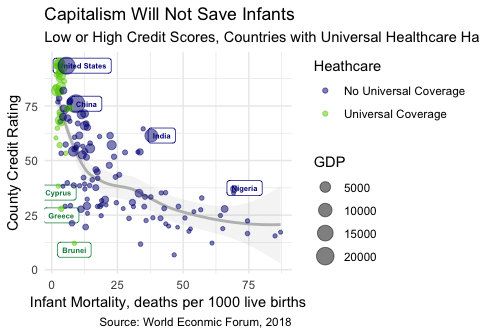
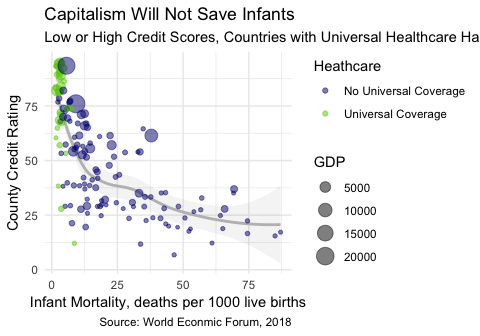
fixes

diff --git a/Global_Metrics_files/Global_Metrics.md b/Global_Metrics_files/Global_Metrics.md
@@ -1,0 +1,127 @@
+Global Metrics of Economic Prosperity and Health
+================
+Quinn Keck
+5/15/2019
+
+Distribution of Credit Scores and Infant Mortality Rate
+=======================================================
+
+``` r
+countries <- read_csv("country_rows_df.csv")
+countries <- drop_na(countries)
+
+ggplot(countries, aes(x = countries$`Country credit rating, 0–100 (best)*`)) + 
+    geom_histogram(aes(y = ..density..), colour = "black", fill = "white", 
+        bins = 100) + geom_density(alpha = 0.2, fill = "green4") + 
+    labs(title = "Distribution of Country Credit Scores in 2018", 
+        x = "Country credit rating, 0–100", y = "", caption = "Source: World Econmic Forum, 2018")
+```
+
+<img src="Global_Metrics_files/figure-markdown_github/unnamed-chunk-1-1.png" style="display: block; margin: auto;" />
+
+``` r
+ggplot(countries, aes(x = countries$`Infant mortality, deaths/1,000 live births*`)) + 
+    geom_histogram(aes(y = ..density..), colour = "black", fill = "white", 
+        bins = 100) + geom_density(alpha = 0.2, fill = "blue") + 
+    labs(title = "Distribution of Infant Mortality Rates in 2018", 
+        x = "Infant Mortality, deaths per 1000 live births", 
+        y = "", caption = "Source: World Econmic Forum, 2018")
+```
+
+<img src="Global_Metrics_files/figure-markdown_github/unnamed-chunk-2-1.png" style="display: block; margin: auto;" />
+
+``` r
+healthcare <- read_csv("health_unviersal_rename_cols.csv")
+
+ggplot(healthcare, aes(x = Infant_Mortality, fill = Heathcare)) + 
+    geom_density(alpha = 0.3) + labs(title = "Distribution of Infant Mortality Rates", 
+    x = "Infant Mortality, deaths per 1000 live births", y = "", 
+    caption = "Source: World Econmic Forum, 2018") + theme_gray()
+```
+
+<img src="Global_Metrics_files/figure-markdown_github/unnamed-chunk-3-1.png" style="display: block; margin: auto;" />
+
+Credit Score and Infant Mortality
+=================================
+
+``` r
+healthcare <- read_csv("health_unviersal_rename_cols.csv")
+healthcare %>% ggplot() + # stat_smooth(aes(x=Infant_Mortality, y=Credit_Rating),method
+# = 'loess', col = 'gray', alpha =0.1) + # se=FALSE
+geom_point(aes(x = Infant_Mortality, y = Credit_Rating, color = Type, 
+    size = GDP), alpha = 0.6) + labs(title = "Universal Healthcare Type and Infant Mortality", 
+    x = "Infant Mortality, deaths per 1000 live births", y = "County Credit Rating", 
+    caption = "Source: World Econmic Forum, 2018 Data", color = "Universal Healthcare Type") + 
+    theme(plot.caption = element_text(hjust = 0))
+```
+
+<img src="Global_Metrics_files/figure-markdown_github/unnamed-chunk-4-1.png" style="display: block; margin: auto;" />
+
+``` r
+# Labels
+
+bottom_credits <- healthcare %>% filter(Heathcare == "Universal Coverage" & 
+    Credit_Rating <= 50)
+
+bottom_credits$Credit_Rating_Minus_3 <- bottom_credits$Credit_Rating - 
+    3
+
+USA <- healthcare %>% filter(Name == "United States")
+
+USA$Position <- USA$Infant_Mortality + 6
+
+India <- healthcare %>% filter(Name == "India")
+
+India$Position <- India$Infant_Mortality + 4
+
+China <- healthcare %>% filter(Name == "China")
+
+China$Position <- China$Infant_Mortality + 4
+
+Nigeria <- healthcare %>% filter(Name == "Nigeria")
+
+Nigeria$Position <- Nigeria$Infant_Mortality + 4
+
+Nigeria$Credit_Rating_Plus_One <- Nigeria$Credit_Rating + 0.5
+
+# Plot
+
+healthcare %>% ggplot() + stat_smooth(aes(x = Infant_Mortality, 
+    y = Credit_Rating), method = "loess", col = "gray", alpha = 0.1) + 
+    scale_color_manual(values = c("navyblue", "chartreuse3")) + 
+    # geom_label(data = bottom_credits, aes(x=Infant_Mortality,
+# y=Credit_Rating_Minus_3, label = Name), colour =
+# 'springgreen4', size = 2, fontface = 'bold', alpha = 0.9)
+# geom_label(data = USA, aes(x=Position, y=Credit_Rating,
+# label = Name), colour = 'darkblue', size = 2, fontface =
+# 'bold', alpha = 0.9) + geom_label(data = China,
+# aes(x=Position, y=Credit_Rating, label = Name), colour =
+# 'darkblue', size = 2, fontface = 'bold', alpha = 0.9) +
+# geom_label(data = India, aes(x=Position, y=Credit_Rating,
+# label = Name), colour = 'darkblue', size = 2, fontface =
+# 'bold', alpha = 0.9) + geom_label(data = Nigeria,
+# aes(x=Position, y=Credit_Rating_Plus_One, label = Name),
+# colour = 'darkblue', size = 2, fontface = 'bold', alpha =
+# 0.9) +
+geom_point(aes(x = Infant_Mortality, y = Credit_Rating, colour = Heathcare, 
+    size = GDP), alpha = 0.5) + labs(title = "Capitalism Will Not Save Infants", 
+    subtitle = "Low or High Credit Scores, Countries with Universal Healthcare Have the Lowest Infant Mortality Rates", 
+    x = "Infant Mortality, deaths per 1000 live births", y = "County Credit Rating", 
+    caption = "Source: World Econmic Forum, 2018") + theme(plot.caption = element_text(hjust = 0)) + 
+    theme_minimal()
+```
+
+<img src="Global_Metrics_files/figure-markdown_github/unnamed-chunk-5-1.png" style="display: block; margin: auto;" />
+
+There are a myriad of factors that go into any one country’s outcomes in economics, healthcare, and other markers of global competitiveness. A high credit score or GDP does not always mean better outcomes in healthcare, as there are many other factors at play. One important indicator is the infant mortality rate. It is important to examine why countries might be outliers, either having a high infant mortality rate despite good economic indicators or having a surprisingly low infant mortality rate despite economic indicators.
+
+Data Sources
+============
+
+Global Competitive Index Dataset –
+
+<http://reports.weforum.org/global-competitiveness-report-2018/downloads/> (includes GDP, Infant Mortality, and Credit Rating)
+
+Country’s Universal Health Care (Joined with Global Competitive Index Data) –
+
+<https://truecostblog.com/2009/08/09/countries-with-universal-healthcare-by-date/> \*\*
